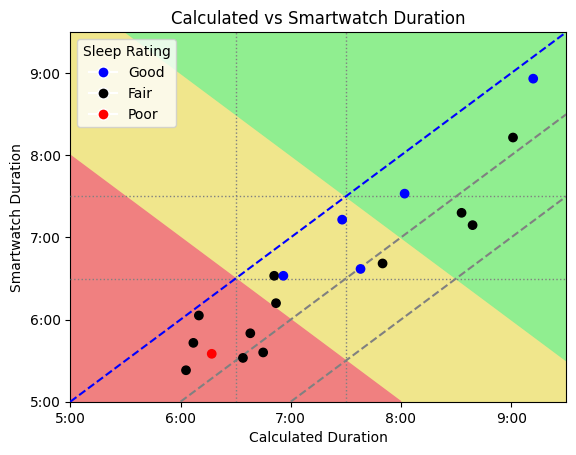
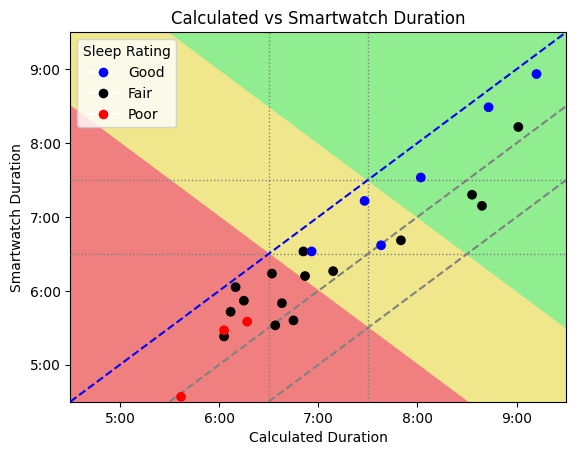
expanded min limits on duration plot

diff --git a/make_plots.py b/make_plots.py
@@ -145,7 +145,7 @@ def plot_sleep(filename="sleep.csv"):
 
     fig, ax = plt.subplots()
 
-    ymin = 5.0
+    ymin = 4.5
     ry = 6.5  # red-yellow transition
     yg = 7.5  # yellow-green transition
     ymax = 9.5
